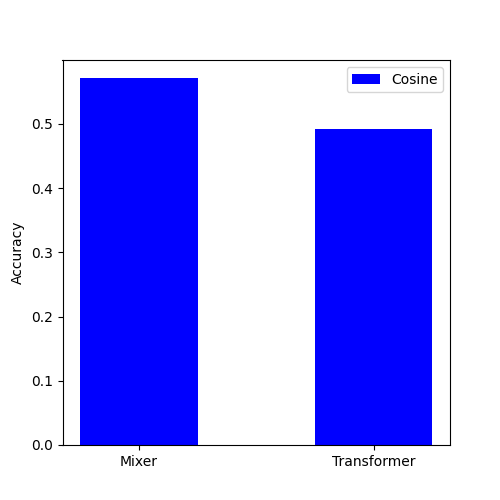
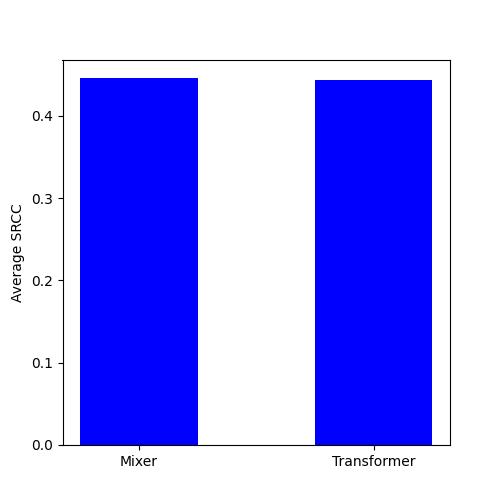
Improved evaluation

diff --git a/training/clip/validation.py b/training/clip/validation.py
@@ -14,7 +14,7 @@ import matplotlib.pyplot as plt
 import numpy as np
 import torch.nn as nn
 
-from clip.dataset import STS
+from clip.dataset import STS, SST
 
 class ImageNetValidator():
     def __init__(self, trainer, preprocess, device, writer) -> None:
@@ -298,4 +298,71 @@ class CosineSimValidator():
 
         if self.writer and step is not None: self.writer.add_figure(f"{dataset.datasetName}/neighborContinuousHistogramCosine", fig, step)
         if verbose: plt.savefig("neighborContinuousHistogramCosine.png")
+
+
+class LinearClassifier(nn.Module):
+    def __init__(self, input_dim, output_dim):
+        super().__init__()
+        self.linear = nn.Linear(input_dim, output_dim)
+
+    def forward(self, x):
+        return self.linear(x)
+
+class SST2Validator():
+    def __init__(self, trainer, device, writer) -> None:
+
+        self.trainer = trainer
+        self.device = device
+        self.writer = writer
+
+        self.datasetTrain = SST("train")
+        self.datasetTest = SST("test")
+    
+    def validate(self, step, verbose=False):
+        # Compute the embeddings for all samples in the dataset
+        embeddings = []
+        labels = []
+        self.trainer.model.eval()
+        for sample, label in DataLoader(self.datasetTrain, batch_size=32):
+            sample = clip.tokenize(sample, truncate=True).to(self.device)
+            with torch.no_grad():
+                if isinstance(self.trainer.model, nn.parallel.DistributedDataParallel):
+                    text_features = self.trainer.model.module.encode_text(sample)
+                else:
+                    text_features = self.trainer.model.encode_text(sample)
+            embeddings.append(text_features)
+            labels.append(label)
+
+        # Train a linear classifier on top of the embeddings
+        embeddings = torch.cat(embeddings)
+        labels = torch.cat(labels)
+        classifier = LinearClassifier(embeddings.size(1), 2).to(self.device)
+        optimizer = torch.optim.Adam(classifier.parameters(), lr=1e-3)
+        criterion = nn.CrossEntropyLoss()
+        for epoch in range(10):
+            for i in range(0, len(embeddings), 32):
+                optimizer.zero_grad()
+                output = classifier(embeddings[i:i+32])
+                loss = criterion(output, labels[i:i+32])
+                loss.backward()
+                optimizer.step()
         
+        # Compute the accuracy on the test set
+        embeddings = []
+        labels = []
+        for sample, label in DataLoader(self.datasetTest, batch_size=32):
+            sample = clip.tokenize(sample, truncate=True).to(self.device)
+            with torch.no_grad():
+                if isinstance(self.trainer.model, nn.parallel.DistributedDataParallel):
+                    text_features = self.trainer.model.module.encode_text(sample)
+                else:
+                    text_features = self.trainer.model.encode_text(sample)
+            embeddings.append(text_features)
+            labels.append(label)
+        embeddings = torch.cat(embeddings)
+        labels = torch.cat(labels)
+        output = classifier(embeddings)
+        accuracy = (output.argmax(dim=1) == labels).float().mean()
+        print(f"Accuracy on SST-2: {accuracy:.2f}")
+        if self.writer is not None:
+            self.writer.add_scalar("Accuracy on SST-2", accuracy, step)

diff --git a/tests/clipFigures.py b/tests/clipFigures.py
@@ -5,8 +5,8 @@ import numpy as np
 def clipFigures():
     top1Perf = [1.33, 0.63]
     top5Perf = [4.13, 2.03]
-    cosinePerf = [[0.562, 0.320, 0.441, 0.414, 0.367, 0.569], 0.4928]
-    cosinePerf = [np.mean(cosinePerf[0]), cosinePerf[1]]
+    cosinePerf = [[0.562, 0.320, 0.441, 0.414, 0.367, 0.569], [0.435, 0.451]]
+    cosinePerf = [np.mean(cosinePerf[0]), np.mean(cosinePerf[1])]
 
     # Print the relative improvement of Mixer over Transformer
     print("Relative improvement of Mixer over Transformer")
@@ -32,7 +32,6 @@ def clipFigures():
     plt.bar([0, 0.2], cosinePerf, color="blue", width=barWidth)
     plt.xticks([0, 0.2], ["Mixer", "Transformer"])
     plt.ylabel("Average SRCC")
-    plt.legend()
     plt.savefig("clipSTSCosine.png")
     plt.show()
 

diff --git a/training/clip/dataset.py b/training/clip/dataset.py
@@ -39,6 +39,24 @@ class STS(Dataset):
 
     def __len__(self):
         return self.stsDataset.num_rows
+    
+class SST(Dataset):
+    def __init__(self, selectedSplit) -> None:
+        super().__init__()
+        self.stsDataset = load_dataset("sst2")[selectedSplit]
+
+        self.datasetName = "sst2"
+
+    def __getitem__(self, index):
+        sample = self.stsDataset[index]
+        label = torch.tensor(float(sample["label"]))
+
+        data = sample["sentence"].lower().strip(), label
+        return data
+
+    def __len__(self):
+        return self.stsDataset.num_rows
+
 
 
 class LaionCoco(Dataset):
